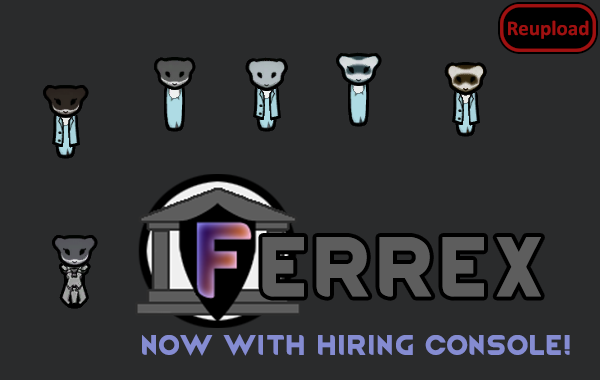
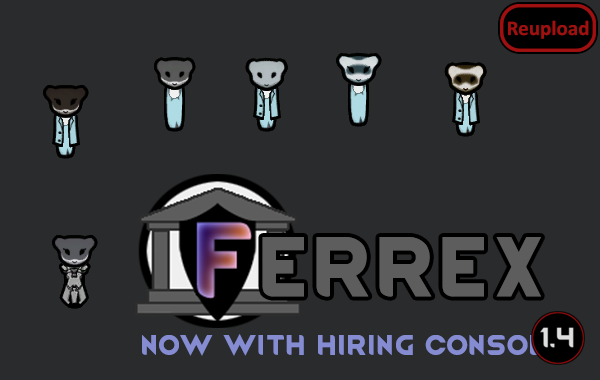
Fixed the research req for the console

Changed region(s): [[0.87, 0.8105, 0.99, 0.9553]]

diff --git a/README.md b/README.md
@@ -41,6 +41,4 @@ The Ferrex are a ferret(Mustelid) humanoid species.
 -  If you have the solution for a problem, please post it to the GitHub repository.
 
 
-
-
-https://steamcommunity.com/sharedfiles/filedetails/changelog/2264061915]Last updated 2023-01-09
+https://steamcommunity.com/sharedfiles/filedetails/changelog/2264061915]Last updated 2023-07-24
